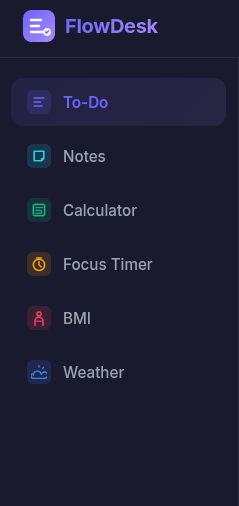
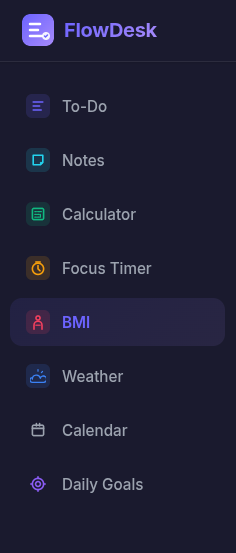
md file updated as new ss added

diff --git a/README.md b/README.md
@@ -14,7 +14,7 @@ Here is a tour of the FlowDesk dark & light productivity hub interface across al
 
 ### 🖥 Main Dashboard Overview
 <p align="center">
-  <img src="screenshots/dashboard_UI.png" alt="FlowDesk Main Dashboard" width="100%" style="border-radius: 8px;">
+  <img src="screenshots/dashboard_UI.png" alt="FlowDesk Main Dashboard" height="400px" style="border-radius: 8px;">
 </p>
 
 ### 🛠 Feature & Widget Showcase
@@ -48,6 +48,16 @@ Here is a tour of the FlowDesk dark & light productivity hub interface across al
     <td width="50%" align="center" valign="top">
       <h4>🌤 Weather Forecast</h4>
       <img src="screenshots/weather_UI.png" alt="Weather Widget" width="100%">
+    </td>
+  </tr>
+  <tr>
+    <td width="50%" align="center" valign="top">
+      <h4>⚖ Live Calendar</h4>
+      <img src="screenshots/calendar_UI.png" alt="Live Calendar Widget" width="100%">
+    </td>
+    <td width="50%" align="center" valign="top">
+      <h4>🌤 Daily Goals</h4>
+      <img src="screenshots/dailygoals_UI.png" alt="Daily Goals Widget" width="100%">
     </td>
   </tr>
 </table>
